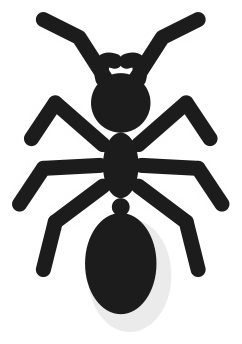
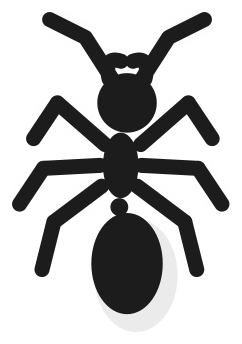
docs: regenerate the curved specimens, note the wave in the v1 spec

diff --git a/README.md b/README.md
@@ -184,7 +184,7 @@ Needs the [.NET 10 SDK](https://dotnet.microsoft.com/download) and, for the inst
 
 ```bash
 dotnet build ScreenBugs.slnx          # build
-dotnet test tests/ScreenBugs.Tests    # 116 tests
+dotnet test tests/ScreenBugs.Tests    # 127 tests
 pwsh build/build-installer.ps1        # publish + package the installer
 pwsh build/verify-install.ps1         # install it four ways and assert the result
 ```
@@ -195,6 +195,7 @@ the code that draws them:
 ```bash
 dotnet run --project tools/IconGen      # app icon + installer wizard images
 dotnet run --project tools/BugRenderer  # the specimen images in this README
+dotnet run --project tools/BugRenderer -- --filmstrip   # each bug across a stride, for eyeballing gaits
 ```
 
 ### Layout

diff --git a/docs/superpowers/specs/2026-09-02-screen-bugs-design.md b/docs/superpowers/specs/2026-09-02-screen-bugs-design.md
@@ -340,7 +340,9 @@ Shared helpers:
   - Amplitude in degrees: ants 9, cockroach 8, ladybug 8, centipede 10,
     mantis 6, all others 7.
 - Body bob: the body group is offset sideways by `1 DIP * sin(4 * PI * LegPhase)`
-  so it sways with the steps.
+  so it sways with the steps. The centipede and the two ants instead offset each
+  body part by a head-to-tail travelling wave; see
+  `2026-09-06-body-undulation-design.md`.
 - Antennae waggle: rotate each antenna about its base by
   `3 degrees * sin(2 * PI * LegPhase + side)`, where `side` is 0 for the left
   antenna and `PI` for the right.
